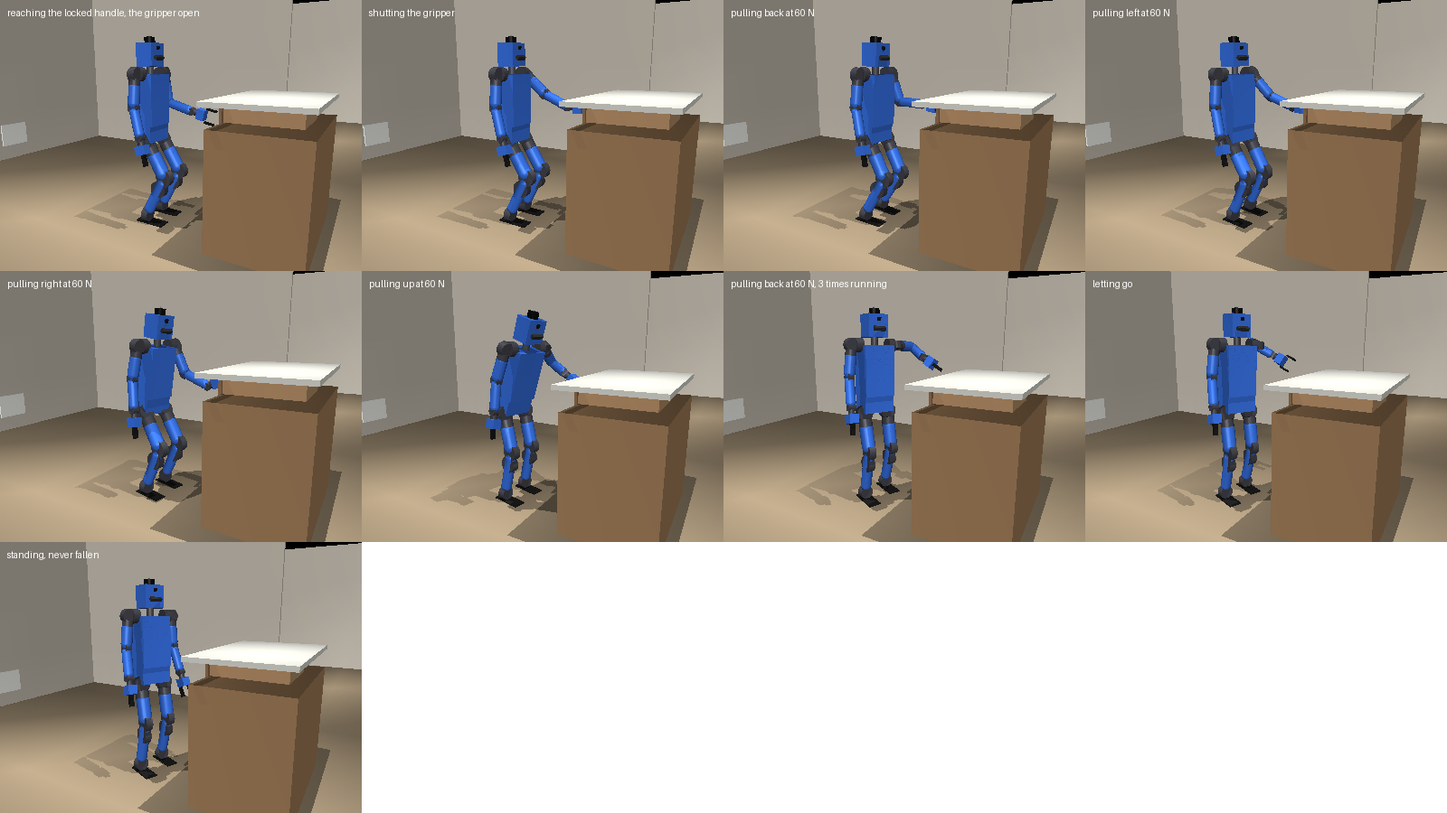
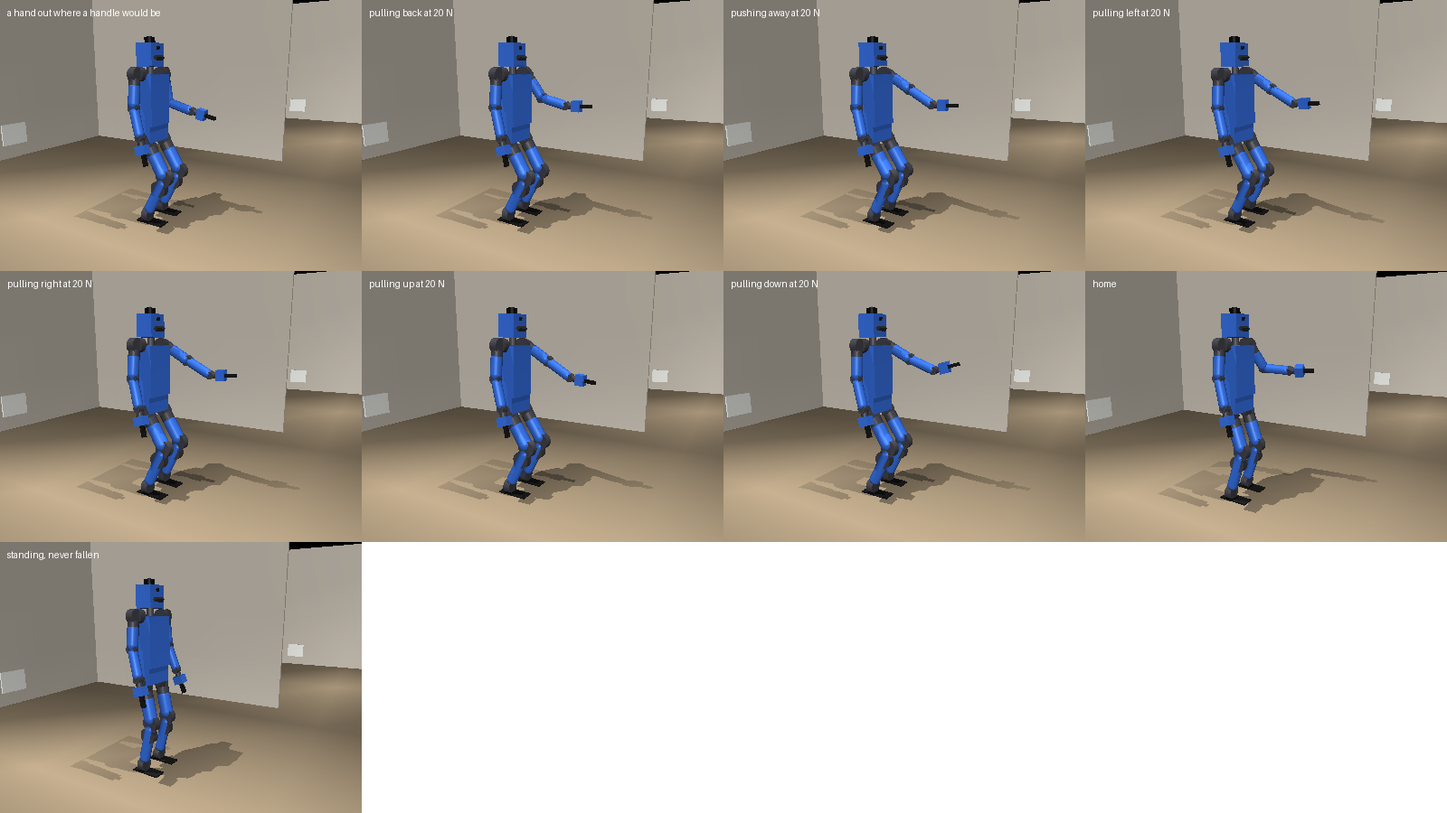
pull asks at most 20 N, what the standing body holds (#544)
Ben, 2026-10-25: `pull`'s force is capped at steps.PULL_MOST_N, 20 N --
held 3 s at a counter's height the body stood to 30 N pulling back and
20 pushing away -- and its text tells the robot so, and that pushing away
holds around two thirds of it, a margin under what pushing held. Our own
procedures do every hands job with 4-20 N. The vendored hello follows.

The pull scene now shows that claim, staged as --pulls stages it: a hand
held where a handle would be, pulling 20 N each way and pushing away, the
body standing. On a locked bar the force move overshoots its ask (30 N on
the bar for 20 pulling back, a 104 N spike pulling up) and the grip lets
go by the second pull: SimNotes says so, the hand's stack and not the
legs'. Parts.md names a wrist force sensor as the part to add for more.

diff --git a/scripts/humanoid_spike.py b/scripts/humanoid_spike.py
@@ -17,10 +17,10 @@ the parts and the bill.
                 loaded as served; `grasp` -- a drawer's handle
                 gripped (judged by the gripper's own reading) and the drawer
                 drawn out with a compliant arm, what the hand felt said
-                beside the truth; `pull` -- a locked handle gripped and
-                pulled at the `pull` verb's most, 60 N, each way in turn
-                and three times running, what the hand felt said beside the
-                pull truly on the bar (#544); `demo` -- #466's chest on a counter, its
+                beside the truth; `pull` -- a hand held out where a
+                handle would be, pulling at the `pull` verb's most, 20 N,
+                each way in turn and pushing away, the force staged on the
+                hand (#544); `demo` -- #466's chest on a counter, its
                 knob found by its tag, reached and gripped, every act a
                 `Body` member; `walk` -- from the living room into the
                 kitchen and back, steered by its own map; `rough` -- the walker
@@ -977,6 +977,7 @@ def sensors_table() -> None:
 from pluggybot.humanoid.arms import DOWN, FORWARD, HandGoal, frame  # noqa: E402
 from pluggybot.humanoid.policy import StandDriver, StandPolicy  # noqa: E402
 from pluggybot.humanoid.reach import Reach, plan  # noqa: E402
+from pluggybot.procedure.steps import PULL_MOST_N  # noqa: E402
 
 #: Where the robot stands: the body scene's spot, facing east down the room.
 STAND_XY, STAND_YAW = GANTRY_XY, GANTRY_YAW
@@ -1495,7 +1496,7 @@ def _world_for(scene: str, policy=None):
   if scene == "stand":
     model, data = standing_world()
   else:
-    model, data = standing_world(lambda spec: counter_scenery(spec, locked=scene == "pull"))
+    model, data = standing_world(None if scene == "pull" else counter_scenery)
   return model, data, Humanoid(model, data, policy)
 
 
@@ -1903,67 +1904,55 @@ def _name_stand(npz: str | None) -> str:
   return os.path.basename(npz) if npz else "served (humanoid_stand.npz)"
 
 
-#: The `pull` scene (#544): the locked handle gripped and pulled at the
-#: verb's most each way in turn, then three times running straight back --
-#: each a short way, as a fixed bar wants: a long one takes the posture its
-#: end needs first (`--pulls`).
-PULL_SCENE_N, PULL_SCENE_M = 60.0, 0.05
-PULL_SCENE = (("back", 1), ("left", 1), ("right", 1), ("up", 1), ("back", 3))
+#: The `pull` scene (#544): the left hand held where a handle would be,
+#: pulling each way at the verb's most (`steps.PULL_MOST_N`), as `--pulls`
+#: stages it: a force on the hand, built at `PULL_RATE_N_S`, held
+#: `PULL_HOLD_S`. ⚠ NOT THE VERB ON A LOCKED BAR: there the force move
+#: overshoots its ask (30 N on the bar for 20 pulling back, a 104 N spike
+#: pulling up) and the grip let go by the second pull.
+PULL_SCENE_N = PULL_MOST_N
+PULL_SCENE = ("back", "forward", "left", "right", "up", "down")
 
 
 def pull_scene(h: Humanoid, records: list | None = None):
-  """The `pull` scene, once: the left hand to the locked handle, shut on
-  it, pulled at `PULL_SCENE_N` along each of `PULL_SCENE`'s ways by the
-  verb's own force move, what the hand felt said beside the pull truly on
-  the bar (our grading); let go, and home."""
+  """The `pull` scene, once: the left hand to where a counter's handle
+  would be, then pulling `PULL_SCENE_N` along each of `PULL_SCENE`'s ways
+  (forward is a push) -- staged with the truth, a force on the hand the
+  other way -- each built at the verb's rate and held, then let go; home."""
   side = "left"
-  g = h.reach.grippers[side]
-  g.open()
-  yield "reaching the locked handle, the gripper open"
-  goal = handle_goal()
-  if not h.reach.reach(side, goal):
-    yield "  no posture puts the handle in reach"
+  yield "a hand out where a handle would be"
+  if not h.reach.reach(side, handle_goal()):
+    yield "  no posture puts it in reach"
     return
   t0 = h.d.time
   while not h.reach.done(side) and h.d.time - t0 < 20.0:
     h.step()
     yield None
-  yield "shutting the gripper"
-  g.shut()
-  yield from wait(h, 0.6)
-  rec = {"held": g.held(), "pulls": []}
-  if not rec["held"]:
-    yield "  NOT HELD by its own reading"
-  for way, times in PULL_SCENE if rec["held"] else ():
+  rot_w, _ = true_stance(h.m, h.d)
+  hand = h.m.body(f"{side}_hand").id
+  rec = {"ways": []}
+  for way in PULL_SCENE:
     w = np.array(PULL_WAYS[way], dtype=float)
-    yield (f"pulling {way} at {PULL_SCENE_N:.0f} N" + (f", {times} times running" if times > 1
-                                                     else ""))
-    for _ in range(times):
-      h.reach.pull(side, w, PULL_SCENE_N, PULL_SCENE_M)
-      truly, t0 = [], h.d.time
-      while h.reach.report[side] is None and h.d.time - t0 < 30.0 and not h.fallen():
-        h.step()
-        truly.append(float(handle_force(h, side) @ (w / np.linalg.norm(w))))
-        yield None
-      rep = h.reach.report[side] or {}
-      n = int(round(0.1 / h.m.opt.timestep))
-      hardest = float(np.convolve(truly, np.ones(n) / n, mode="valid").max()) if len(truly) >= n else 0.0
-      rec["pulls"].append((way, rep.get("why"), rep.get("force"), hardest))
-      yield (f"  {rep.get('why', 'fell')}: the hand read {rep.get('force') or 0:.0f} N at its "
-             f"hardest, truly {hardest:.0f} N on the bar")
+    f = -rot_w @ (w / np.linalg.norm(w)) * PULL_SCENE_N
+    yield f"{'pushing away' if way == 'forward' else f'pulling {way}'} at {PULL_SCENE_N:.0f} N"
+    build = PULL_SCENE_N / PULL_RATE_N_S
+    for k in range(int(round((build + PULL_HOLD_S) / h.m.opt.timestep))):
+      h.d.xfrc_applied[hand, :3] = f * min(1.0, k * h.m.opt.timestep / build)
+      h.step()
       if h.fallen():
+        h.d.xfrc_applied[hand] = 0.0
         yield "FELL"
         return
+      yield None
+    h.d.xfrc_applied[hand] = 0.0
+    rec["ways"].append(way)
     yield from wait(h, 1.0)
-  yield "letting go"
-  g.open()
-  yield from wait(h, 0.5)
+  yield "home"
   h.reach.retreat(side)
   t0 = h.d.time
   while h.reach.phase[side] != "rest" and h.d.time - t0 < 20.0:
     h.step()
     yield None
-  g.shut()
   yield from posture(h, 0.0, 0.0)
   rec["fell"] = h.fallen()
   yield "standing, never fallen" if not rec["fell"] else "FELL"

diff --git a/src/pluggybot/procedure/steps.py b/src/pluggybot/procedure/steps.py
@@ -937,6 +937,12 @@ HAND_BOX = ((-0.5, 1.0), (-0.8, 0.8), (0.0, 2.0))
 #: A hand's speed when carried or pulled, m/s: the reach's own
 #: (`humanoid.reach.HOLD_SPEED` is the default; `HAND_SPEED` the most).
 HAND_V = (0.01, 0.06, 0.2)
+#: The most a `pull` asks, N: what the standing body holds at a hand (Ben,
+#: 2026-10-25, #544). Held 3 s at a counter's height it stood to 30 N
+#: pulling back and 20 pushing away, falling at 40 and 30; it feels no pull
+#: until the body moves (SimNotes, "Holding the pull verb's 60 N at a
+#: hand"). Its text tells the robot pushing holds about two thirds of it.
+PULL_MOST_N = 20.0
 
 
 def _reports(life) -> dict:
@@ -1455,7 +1461,7 @@ HANDS_VERBS: dict[str, Verb] = {
   # component, two of #493's tries ended at a computed 1.03 and 1.001
   "pull": Verb("pull", {"hand": _HAND, "dx": Arg("float"), "dy": Arg("float"),
                         "dz": Arg("float"),
-                        "force": Arg("float", lo=1.0, hi=60.0),
+                        "force": Arg("float", lo=1.0, hi=PULL_MOST_N),
                         "distance": Arg("float", lo=0.01, hi=0.6), "speed": _SPEED,
                         "give": _GIVE},
                _pull, "pull a hand that is out -- or push it -- along the way (dx, dy, dz), of "
@@ -1466,7 +1472,9 @@ HANDS_VERBS: dict[str, Verb] = {
                "turn. It stops once it has "
                "gone `distance` m along the way, it is held fast "
                "(pushing with its whole force and not moving), its grip lets go, or it can "
-               "reach no further; then it holds there. How far it went, the hardest it "
+               "reach no further; then it holds there. Standing, your body holds a pull of "
+               f"{PULL_MOST_N:.0f} N at a hand, and pushing away from you around two thirds of "
+               "that. How far it went, the hardest it "
                "pushed and the way it was going at its end ride `pull.*`; ok when it pulled"),
   "step": Verb("step", {"ahead": Arg("float", lo=-0.5, hi=0.5),
                         "left": Arg("float", lo=-0.5, hi=0.5, default=0.0),

diff --git a/tests/test_hands.py b/tests/test_hands.py
@@ -96,6 +96,21 @@ def test_a_hands_world_calls_its_own_verbs_and_a_served_world_is_unchanged():
   assert "measure" not in bare.verbs and set(st.HAND_VERBS) <= set(bare.verbs)
 
 
+def test_a_pull_asks_no_more_than_the_standing_body_holds_and_says_so():
+  """#544 (Ben, 2026-10-25): `pull` asks at most what the standing body
+  holds at a hand, 20 N -- held 3 s at a counter's height it stood to 30 N
+  pulling back and 20 pushing away -- and its text says so, and that
+  pushing away holds around two thirds of it. More is refused before a
+  step runs, as any bound is."""
+  pull = st.language(st.hand_facts())["pull"]
+  assert pull.args["force"].hi == st.PULL_MOST_N == 20.0
+  assert "your body holds a pull of 20 N at a hand, and pushing away from you around " \
+         "two thirds of that" in " ".join(pull.doc.split())
+  lang.compile_procedure('def a():\n    pull("left", -1, 0, 0, 20, 0.1)\n', st.hand_facts())
+  with pytest.raises(st.Refused, match="force=21.0 is above 20.0"):
+    lang.compile_procedure('def a():\n    pull("left", -1, 0, 0, 21, 0.1)\n', st.hand_facts())
+
+
 def test_no_hand_verb_knows_the_chest():
   """Ben's condition on call 2: every verb generic, for any handle and any
   drawer -- a grip only shuts and says whether it holds, a hand is moved by

diff --git a/CLAUDE.md b/CLAUDE.md
@@ -274,7 +274,7 @@ save a filmstrip PNG named after the script.
 | `scripts/press_spike.py` | #439: the pair in the lab on true-floor maps, the camera on, one robot lying where a scene puts it (by default where its own press backs out, 0.25 m short of the feed plate's standoff) and the other finding and pressing the feed plate, one process a scene: how the press ended and its tries, the walk's and the way in's time, the steps aside, every plate the feet came down on; `--drift-walker`/`--drift` lay one map off as Luca's was |
 | `scripts/solve.py --feature mouse` | ladder A of #264, the paid feed on legs (#403): offered, claimed with a prediction, walked and graded by the job's own evaluator; `--pair`, `--n N`, `--from dock\|lab`; filmstrip `solve.png`. `--feature hide_and_seek` flies the pair's game (#404): offered as the cadence offers it, both roles claimed, each run from the queue the referee fills, the verdict banked; one game a scene (`--scene A,B`, `--swap` both ways round; `--find`, `--seek-s`, `--head-s` sweep the referee). `--feature answer\|draw\|artwork` flies a whiteboard's job (#406): offered on a board (`--board`, or the two in turn), claimed -- an answer with the right one -- drawn lying and graded off the board's ink. `--feature tower\|bench` flies a challenge (#407): offered with its area's terms, claimed, the hand-written solution run as the robot's procedure (`challenge/solutions.py`), graded by its own predicate |
 | `scripts/board_png.py` | a whiteboard's ink as a PNG from the boards state file or a recording. ⚠ +lat is the viewer's LEFT, as in the site's `surfaces/board.ts`; the test pins it because every figure the pen draws is symmetric |
-| `scripts/humanoid_spike.py` | the humanoid (#507; SimNotes "The humanoid body", "The humanoid stands, reaches and grasps", "The humanoid behind Body", "The humanoid walks", "The humanoid climbs, falls and gets up" and "One walker that sees the ground", Parts.md "The humanoid body"): `--view body` the body held up on a gantry in the house, each joint through its range, then the grippers; `--view stand` its standing policy shoved, crouching and bowing, `--view reach` a hand to a counter, a high shelf, a low shelf and the floor through `Body`, its get-up loaded, `--view grasp` a drawer's handle gripped and pulled, `--view pull` a locked handle pulled at `pull`'s 60 N each way (#544), `--view demo` the chest's knob on a counter found by its tag, reached and gripped through `Body`, `--view walk` living room to kitchen and back on its own map, `--view rough` the walker that sees the ground (not served) across doorsteps, paving, a slope and blocks, `--view stairs` it up the house's flight on its own map, round on the landing and down, `--view fall` shoved over three ways, its get-up taking each fall, `--view getup` up off its back, its front and its side (`--strip SCENE` the filmstrip, `--policy NPZ` another standing policy, `--getup-policy NPZ`); `--mass` beside the T2's published model, `--torque` held in our physics and the walking, the stairs and the get-up FLOWN, `--thermal`, `--energy`, `--sensors`; `--friction [--write]` its arm joints' friction calibrated in free air beside the sheets', kept in `models/humanoid_friction.json`; `--shove` the shoves it stands through, `--envelope` the reach flown floor to over the head, `--hold` a locked handle pulled harder, `--pulls` a hand pulling each of 14 ways at a counter's height until it falls, `--handover [N]` the walk's hand-over at a standstill through `step` (#544), `--demo-table [N]` the demo's set-outs flown through `Body`, `--track` / `--rough [NPZ,...]` the served and any walker asked each command on a bare floor / over a doorstep, paving, a slope and blocks (one that sees the ground on its own map), `--odometry` the leg odometry against the truth, `--climb [NPZ]` flights of five at each riser up and down on the ideal scan and its own map, `--fall [NPZ]` shoved over six ways standing, limp or getting up, in five places in the house, and from each bow a reach takes (#520), `--speed [SIM_S]` the real-time multiple of one humanoid and a pair against the quadruped pair (`--profile`); filmstrip `humanoid_spike.png` |
+| `scripts/humanoid_spike.py` | the humanoid (#507; SimNotes "The humanoid body", "The humanoid stands, reaches and grasps", "The humanoid behind Body", "The humanoid walks", "The humanoid climbs, falls and gets up" and "One walker that sees the ground", Parts.md "The humanoid body"): `--view body` the body held up on a gantry in the house, each joint through its range, then the grippers; `--view stand` its standing policy shoved, crouching and bowing, `--view reach` a hand to a counter, a high shelf, a low shelf and the floor through `Body`, its get-up loaded, `--view grasp` a drawer's handle gripped and pulled, `--view pull` a locked handle pulled at `pull`'s most, 20 N, each way (#544), `--view demo` the chest's knob on a counter found by its tag, reached and gripped through `Body`, `--view walk` living room to kitchen and back on its own map, `--view rough` the walker that sees the ground (not served) across doorsteps, paving, a slope and blocks, `--view stairs` it up the house's flight on its own map, round on the landing and down, `--view fall` shoved over three ways, its get-up taking each fall, `--view getup` up off its back, its front and its side (`--strip SCENE` the filmstrip, `--policy NPZ` another standing policy, `--getup-policy NPZ`); `--mass` beside the T2's published model, `--torque` held in our physics and the walking, the stairs and the get-up FLOWN, `--thermal`, `--energy`, `--sensors`; `--friction [--write]` its arm joints' friction calibrated in free air beside the sheets', kept in `models/humanoid_friction.json`; `--shove` the shoves it stands through, `--envelope` the reach flown floor to over the head, `--hold` a locked handle pulled harder, `--pulls` a hand pulling each of 14 ways at a counter's height until it falls, `--handover [N]` the walk's hand-over at a standstill through `step` (#544), `--demo-table [N]` the demo's set-outs flown through `Body`, `--track` / `--rough [NPZ,...]` the served and any walker asked each command on a bare floor / over a doorstep, paving, a slope and blocks (one that sees the ground on its own map), `--odometry` the leg odometry against the truth, `--climb [NPZ]` flights of five at each riser up and down on the ideal scan and its own map, `--fall [NPZ]` shoved over six ways standing, limp or getting up, in five places in the house, and from each bow a reach takes (#520), `--speed [SIM_S]` the real-time multiple of one humanoid and a pair against the quadruped pair (`--profile`); filmstrip `humanoid_spike.png` |
 | `scripts/quad_spike.py` | the quadruped body (#377; SimNotes "The quadruped body"): `--view` watches it, `--torque`/`--thermal`/`--energy`/`--sweep`/`--pupper` are the sizing tables (on `model.SIZING`, #377's placeholder arm, #405), `--policy`/`--climb`/`--getup`/`--posture`/`--odometry`/`--determinism` fly a trained policy in OUR physics (`--climb --scan map` on the D435's map, `legs/scan.py`, #388), `--shove` the served body knocked over in the house (what `stuck_after_s` is read off, #389), `--served`/`--rays` time the pair and the sensors |
 | `scripts/dock_spike.py` | the quadruped's dock (#378; SimNotes "The quadruped's dock"): `--capture` the funnel's envelope (premises `--sticky`, `--flat`), `--approach [--n N]` the success rate walking in by the board (premise `--blind`), `--hold` lying there: contact, preload, the anchor, standing off; `--view` dockings in the viewer, one after another; `--mouth`/`--bed` fly another width; filmstrip `dock_spike.png` |
 | `scripts/draw_spike.py` | drawing on a whiteboard with the arm (#406; SimNotes "Drawing on legs"): the served body, the pen on its fork, walks to the board, lies down, finds its face by touch and draws; `--figure square\|house\|answer:NN ...`, `--board`, `--stance stand` (the premise), `--n N`; `--sway [--stance lie,stand]` the stance table; filmstrip `draw_spike.png` |
@@ -288,7 +288,7 @@ save a filmstrip PNG named after the script.
 | `scripts/hands_check.py` | #525's capability check: our procedure in the hands' vocabulary for the lid, a drawer, a door's lever and a cube placed (`evaluation.hands_check`), flown at each job's set-outs and graded by its own grader, the bar (6 of 8) written first: `--job J,..`, `--set-outs A-B`, `--jobs`, `--into DIR`, `--read DIR`, `--source JOB` the procedure and its length against the cap, `--view JOB [K]` a flight in the viewer, `--strip JOB [K]` its filmstrip `hands_check.png` |
 | `scripts/practice.py` | #493's graded practice: the mind (`--model`, the deployed by default; `$HF_TOKEN`) writes the humanoid's procedure for the lid, tries it from a fresh set-out, is shown how it ran and the world's grade, and writes again, up to `--attempts` (5) a chest, a fresh robot a chest; the hands' vocabulary (#525; #493's `--pull`, `--verb-tests` and `--path` arms retired, `run.vocabulary` saying which a row flew); `--chests`, `--held-out N` (the frozen commit's seed), `--acquire A-B` the KEPT protocol (practice first, `--until`, `--max-chests`, `--give-up-after`; `--kept FILE` a record's library), `--early-stop` once the bar is out of reach, `--notes` notes and a draft carried, `--no-measure` without the depth camera's `measure` (its own arm), `--jobs`, `--into DIR`, `--no-picture`, `--read DIR` the per-task record and what the mind cost |
 
-- **The bodies' training stack lives in `training/`, a uv project of its own** (#377; the humanoid's `humanoid_train/` beside `quad_train/`, #507 -- `Pluggy-Humanoid-Stand`, `-Stand-Felt` (#544, not served), `-Walk`, `-Walk-Rough`, `-Walk-Seeing`, `-Walk-Seeing-Fine`, `-Stairs`, `-Getup`, `-Getup-Head` -- one entry point `python -m quad_train.train`, its export `--body humanoid`): mjlab 1.5.x (it pins `mujoco ~=3.10.0`, the served sim's), reading the body from `models/quadruped.{xml,json}` (`python -m pluggybot.legs.model` writes both; the humanoid's `models/humanoid.{xml,json}`; mjlab caps numpy below pluggybot's, so the two never share an environment), the arm FIXED at its stow (`quad_train.robot.freeze_arm`, #405: a policy's joints are the legs' twelve, and the arm's geometry is there to fall on). ⚠ Importing `legs.policy` or `legs.model` loads none of torch, jax, warp, onnx or mjlab (`tests/test_legs.py`); a policy reaches the served sim as an `.npz` that `quad_train.export` checks against its ONNX before writing, run by `legs/policy.py` in numpy. ⚠ The leg DRIVERS are MuJoCo's position-mode `dcmotor` (#385; `body_xml(drive="position")`), the PD and the envelope in C, commanded as a GDS68 is (`legs/drivers.py`): every command carries its gains — a policy's are its own, a routine's torque rides a target with the damping cancelled (the torque motor's step to 1e-14), `limp()` holds nothing — so a policy and the scripted routines share one body. The default gains are ONE definition, `actuator.driver_gains`, which `training/` reads from `quadruped.json`. `drive="torque"` (plain motors) is the sizing tables' instrument. `training/pod.sh` rents a GPU to train on, or CPUs to fly a batch (`create-cpu`), on Vast.ai through its CLI, or on Runpod over the REST API with `PROVIDER=runpod` (#510; `runpodctl pod create` needs a GraphQL-writable key); a pod's id says whose it is, and a card is picked by what a million steps cost (`training/README.md`). ⚠ The `vastai` CLI exits 0 when it is refused, and `destroy` says nothing under `--raw`: read the JSON and the instance, never the exit code. ⚠ On Runpod a POST to `/v1/pods` with an EMPTY body CREATES a pod: every field has a default.
+- **The bodies' training stack lives in `training/`, a uv project of its own** (#377; the humanoid's `humanoid_train/` beside `quad_train/`, #507 -- `Pluggy-Humanoid-Stand`, `-Walk`, `-Walk-Rough`, `-Walk-Seeing`, `-Walk-Seeing-Fine`, `-Stairs`, `-Getup`, `-Getup-Head` -- one entry point `python -m quad_train.train`, its export `--body humanoid`): mjlab 1.5.x (it pins `mujoco ~=3.10.0`, the served sim's), reading the body from `models/quadruped.{xml,json}` (`python -m pluggybot.legs.model` writes both; the humanoid's `models/humanoid.{xml,json}`; mjlab caps numpy below pluggybot's, so the two never share an environment), the arm FIXED at its stow (`quad_train.robot.freeze_arm`, #405: a policy's joints are the legs' twelve, and the arm's geometry is there to fall on). ⚠ Importing `legs.policy` or `legs.model` loads none of torch, jax, warp, onnx or mjlab (`tests/test_legs.py`); a policy reaches the served sim as an `.npz` that `quad_train.export` checks against its ONNX before writing, run by `legs/policy.py` in numpy. ⚠ The leg DRIVERS are MuJoCo's position-mode `dcmotor` (#385; `body_xml(drive="position")`), the PD and the envelope in C, commanded as a GDS68 is (`legs/drivers.py`): every command carries its gains — a policy's are its own, a routine's torque rides a target with the damping cancelled (the torque motor's step to 1e-14), `limp()` holds nothing — so a policy and the scripted routines share one body. The default gains are ONE definition, `actuator.driver_gains`, which `training/` reads from `quadruped.json`. `drive="torque"` (plain motors) is the sizing tables' instrument. `training/pod.sh` rents a GPU to train on, or CPUs to fly a batch (`create-cpu`), on Vast.ai through its CLI, or on Runpod over the REST API with `PROVIDER=runpod` (#510; `runpodctl pod create` needs a GraphQL-writable key); a pod's id says whose it is, and a card is picked by what a million steps cost (`training/README.md`). ⚠ The `vastai` CLI exits 0 when it is refused, and `destroy` says nothing under `--raw`: read the JSON and the instance, never the exit code. ⚠ On Runpod a POST to `/v1/pods` with an EMPTY body CREATES a pod: every field has a default.
 - ⚠ **A batch of flights runs on a rented pod's CPUs or under a memory cap, never bare on the dev box** (#469: six house worlds at once took it into swap and its desktop down overnight, 2026-10-06): `training/pod.sh create-cpu` → `setup-sim` (the commit, never the working tree) → `batch` with `--jobs` one under the share `setup-sim` reports (a Vast share is a hard quota) → `pull-batch`, then `delete`; locally, `systemd-run --user --scope -p MemoryMax=12G -p MemorySwapMax=0 ...`. A pool of flights gives each its own process (`maxtasksperchild=1`: a world dropped in a reused worker is held until the cycle collector runs), and results go under `~`, never `/tmp`, which a reboot wipes.
 - **The humanoid is our own body from real parts, in simulation first** (#507;
   `humanoid/`, SimNotes and Parts.md "The humanoid body"): `models/humanoid.{xml,json}`
@@ -333,14 +333,17 @@ save a filmstrip PNG named after the script.
   home"). Training's arms are SCRIPTED,
   their gains the served arms' (`model.ARM_GAIN_SCALE`, through
   `humanoid.json`). `training/humanoid_train/g1_check.py` is rule 6's
-  check: mjlab's stock G1 flown outside mjlab. ⚠ A HAND AT A COUNTER'S
-  HEIGHT HOLDS 20-40 N ACROSS THE FLOOR, NOT `pull`'s 60 (#544; SimNotes,
-  "Holding the pull verb's 60 N at a hand"; `humanoid_spike.py --pulls`):
-  retrained against 60 N, a policy blind to the pull only stands 1.5-2 cm
-  further back (a handle at the reach's edge then out of reach), and one
-  shown the hand's force holds 60 N only on the true force -- the robot's
-  own reading, its arm's currents, is ~20 N off and blind along a
-  stretched arm. The served policy is stand4.
+  check: mjlab's stock G1 flown outside mjlab. ⚠ `pull` ASKS AT MOST 20 N,
+  WHAT THE STANDING BODY HOLDS (`steps.PULL_MOST_N`; Ben, 2026-10-25, #544;
+  SimNotes, "Holding the pull verb's 60 N at a hand"; `humanoid_spike.py
+  --pulls`), and its text says pushing away holds around two thirds of it:
+  a hand at a counter's height held 20-40 N across the floor for 3 s.
+  Retrained against 60 N, a policy blind to the pull only stood 1.5-2 cm
+  further back (a handle at the reach's edge then out of reach); one shown
+  the hand's force held 60 N only on the true force -- the robot's own
+  reading, its arm's currents, is ~20 N off and blind along a stretched
+  arm. The served policy is stand4; a wrist force sensor is the part to
+  add for more (Parts.md).
 - **The humanoid is a `Body`, and walks through the Navigator** (#507
   stages 3 and 4; `humanoid/body.py`, `mission.py`, `walk.py`,
   `odometry.py`; SimNotes, "The humanoid behind Body" and "The humanoid

diff --git a/docs/SimNotes.md b/docs/SimNotes.md
@@ -5577,7 +5577,7 @@ it works against is not built.
 ## Holding the pull verb's 60 N at a hand (issue #544)
 
 Ben decided (2026-10-25) that the standing policy be retrained to hold
-what `pull` allows, 60 N at a hand, where it trained against 30 N a
+what `pull` then allowed, 60 N at a hand, where it trained against 30 N a
 component. Retrained as decided it holds no more, and four ways round it
 did not either: what it would need is the force at its hand, and the
 robot cannot read that.
@@ -5591,7 +5591,11 @@ force at the hand, the policy's own measure. ⚠ The verb on the bar is not
 the instrument: a `pull` takes the posture its way's END needs first, and
 0.3 m down the body bowed 48 deg on a fixed bar and its grip rolled off;
 on a short way it ends at its distance before the force builds, the body
-giving. stand4, the served policy, stands to:
+giving. ⚠ And on a fixed bar the force move overshoots its ask: asked 20 N
+it put 30 N on the bar pulling back, and pulling up a spike of 104 N for a
+tenth of a second as the grip let go -- the grip holding one pull, about
+25-37 N (`--hold` slips at 37). That is the hand's stack, not the legs'.
+stand4, the served policy, stands to:
 
 | pulling | back | forward | left | right | up | down | back-down | forward-down |
 |---|---|---|---|---|---|---|---|---|
@@ -5602,7 +5606,8 @@ giving. stand4, the served policy, stands to:
 (37.4 N, the grip slipping) are as stage 2 of #507 measured them.
 
 **Retrained, four ways** (`Pluggy-Humanoid-Stand`, 4096 envs, 4000
-iterations, 32-33 min on a rented 5090 each):
+iterations, 32-33 min on a rented 5090 each; the draw and its flags are in
+git, bee276e to a8738f1, and the task trains stand4's again):
 
 | run | what changed | steps an episode, its last 200 iterations | --pulls, summed |
 |---|---|---|---|
@@ -5628,8 +5633,9 @@ pushing, and puts a handle planned with 1.5 cm of slack out of the reach
 stand8's never closed on it.
 
 **Shown its hand's force, it holds -- where the force is true.** stand12
-(`Pluggy-Humanoid-Stand-Felt`: each hand's force in the trunk's frame
-through 8 N of noise, beside stand10's flags; 413 steps an episode) fell
+(`Pluggy-Humanoid-Stand-Felt`, git 34f0ed3: each hand's force in the
+trunk's frame through 8 N of noise, beside stand10's flags; 413 steps an
+episode) fell
 to none of 40 or 60 N at a hand, any way, in mjlab's physics, where stand7
 fell every time at 60; stand13, the fall charged too (862 steps), 0-14 %
 at 60. But the robot's reading of
@@ -5641,20 +5647,22 @@ the bar, it read 8.5 N forward and 17 N up. Shown that, stand12 held no
 more than the blind ones (550 N summed; up 30, where stand4 holds 80).
 The served wiring was built, tested and reverted (git: 34101aa).
 
-![The `pull` scene on stand4: the locked handle pulled at the verb's 60 N
-back, left, right and up, then back three times running -- each pull ends
-at its way's distance with 24-40 N on the bar, and the grip lets go at 45
-N pulling up, the robot standing throughout](figures/humanoid_pull.png)
+![The `pull` scene on stand4: the left hand held where a handle would be,
+pulling at the verb's most, 20 N -- back, pushing away, left, right, up
+and down, the force staged on the hand -- the body standing
+throughout](figures/humanoid_pull.png)
 
 (`MUJOCO_GL=egl uv run python scripts/humanoid_spike.py --strip pull --out
 docs/figures/humanoid_pull.png`; `--view pull` in the viewer.)
 
-**What is true now:** the served standing policy is still stand4, and a
-hand at a counter's height holds 20-40 N across the floor against it for
-3 s, whatever `pull` allows. Holding 60 N wants a hand force the robot can
-read (a sensor at the wrist, or a reading of the arm's currents that knows
-its friction), less asked of a hand (`pull`'s cap), or the reach leaning
-the body into a pull before it builds: #544's call.
+**What is true now:** the served standing policy is still stand4, a hand
+at a counter's height holds 20-40 N across the floor against it for 3 s,
+and `pull` asks at most 20 N (`steps.PULL_MOST_N`, Ben, 2026-10-25), its
+text telling the robot that pushing away holds around two thirds of that
+-- a margin under the 20 N pushing held. Our own procedures do every hands
+job with 4-20 N. Holding more wants a hand force the robot can read: a
+sensor at the wrist (Parts.md, "The humanoid body"), or a reading of the
+arm's currents that knows its friction.
 
 ## Debugging workflow that worked
 

diff --git a/docs/Hands.md b/docs/Hands.md
@@ -90,7 +90,7 @@ and its feet, which the walking policy moves.
 | `reach(hand, x, y, z, fingers, jaws, stiffness)` | the grip to a point, turned as asked or as the arm finds; out to a point short of it, then in along the fingers | `hand.x/y/z`, `hand.fx..fz` | out of reach (and whether the other hand could, as asked or turned another way), turned as asked or not; stopped short. ⚠ What it touches on its way in under the blocking force can hold it a few cm short while it holds: the hand's place says where (§5) | the arm's IK on the robot's model of itself, a planned posture |
 | `via(hand, x, y, z, turn)` | adds a point to the hand's next move; nothing moves | -- | a path holds 40 points | -- |
 | `move_hand(hand, x, y, z, speed, stiffness, turn)` | a hand that is out carried along a line, or through its `via` points, as ONE motion from one posture | as `reach` | out of reach (planned or partway), held back | `Reach.carry`, `path_for` |
-| `pull(hand, dx, dy, dz, force, distance, speed, give)` | THE FORCE MOVE (§4) | `pull.moved`, `pull.force` (the hardest along its way, as felt), `pull.dx..dz` (the way the hand was going at its end) | ok whenever it pulled; why it stopped (distance, held fast, let go, out of reach, feet moved) is the record's | `Reach.pull` |
+| `pull(hand, dx, dy, dz, force, distance, speed, give)` | THE FORCE MOVE (§4), at most 20 N: what the standing body holds, pushing away around two thirds of it (#544) | `pull.moved`, `pull.force` (the hardest along its way, as felt), `pull.dx..dz` (the way the hand was going at its end) | ok whenever it pulled; why it stopped (distance, held fast, let go, out of reach, feet moved) is the record's | `Reach.pull` |
 | `close_hand(hand, force)` | shuts the gripper with at most `force` a pad, 5-120 N | `hand.held`, `hand.gap` | closed on nothing it holds | the Dex1-1's torque limit, its encoder and current |
 | `open_hand(hand)` | opens the gripper | -- | -- | -- |
 | `withdraw(hand)` | the hand back along its way in, then the arm home: straight, or out to its side first and lowered there where that keeps the arm higher in front of the robot than straight would (SimNotes, "The way home"); ok once its drivers read it home | -- | not home by `RELEASE_S` (something holds it); a fall | `Reach.way_home` on the robot's model of itself, `Reach.home` |
@@ -275,11 +275,12 @@ no new help") -- tries a fall now fails (#544).
 
 ## 7. What it does not do
 
-- **Hold all the force a pull may ask.** `pull` takes up to 60 N, and a
-  hand at a counter's height holds 20-40 N across the floor before the body
-  goes over (#544; SimNotes, "Holding the pull verb's 60 N at a hand"): the
-  standing policy does not feel a pull until the body moves, and the force
-  the arm's currents read is too rough to show it one.
+- **Pull harder than the body holds.** A hand at a counter's height holds
+  20-40 N across the floor before the body goes over, so `pull` asks at
+  most 20 N (`steps.PULL_MOST_N`; Ben, 2026-10-25) and says pushing away
+  holds around two thirds of it (#544; SimNotes, "Holding the pull verb's
+  60 N at a hand"): the standing policy does not feel a pull until the body
+  moves, and the force the arm's currents read is too rough to show it one.
 - **Two hands at once.** Every verb is one hand's; a bimanual frame-and-work
   split waits for a job that needs it.
 - **Motion within the hand** beyond a light grip's turn between the pads.

diff --git a/docs/Parts.md b/docs/Parts.md
@@ -430,7 +430,11 @@ to a low reach and the legs' yaws turn it, and no demo asks the shoulders to
 turn on the hips), its head's two (the depth camera is fixed, pitched at the
 counter and the floor ahead; a shelf above the head is out of its view), and
 its seventh arm joint (redundancy, not reach). Each is the first joint to add
-if a stage's measurement comes up short.
+if a stage's measurement comes up short. Nor a force sensor at either wrist
+(#544): `pull` asks at most what the standing body holds, 20 N, and shown a
+hand's true force in training's physics the standing policy held 60 N, where
+the arm's currents read too rough to show it -- the part to add if a job
+needs more, its mass at the wrist re-measured against every policy.
 
 **One maker for every joint.** RobStride's RS line shares one MIT-mode CAN
 frame, one 48 V bus and one driver's algebra, and each part's sheet gives

diff --git a/docs/Evaluation.md b/docs/Evaluation.md
@@ -1552,8 +1552,9 @@ them). `practice.py --job door` flies it.
 - **What they said they lacked** (their thinking and notes): a sense of
   the door's angle, in 46 and 23 turns -- every lid arm's lack too; and
   room: 27 sources refused for nesting deeper than 4, 11 over the
-  1,500-character cap, 15 asking more force than a verb gives (`pull` 60
-  N, `close_hand` 120 N), 6 using a verb's result in an expression, 2
+  1,500-character cap, 15 asking more force than a verb gave (`pull` 60
+  N then, 20 since #544; `close_hand` 120 N), 6 using a verb's result in
+  an expression, 2
   writing `break` or `continue`. Their notes are technique: where the
   default grip lands against the tag, the pull that topples the body, a
   wait so the door does not swing back.
